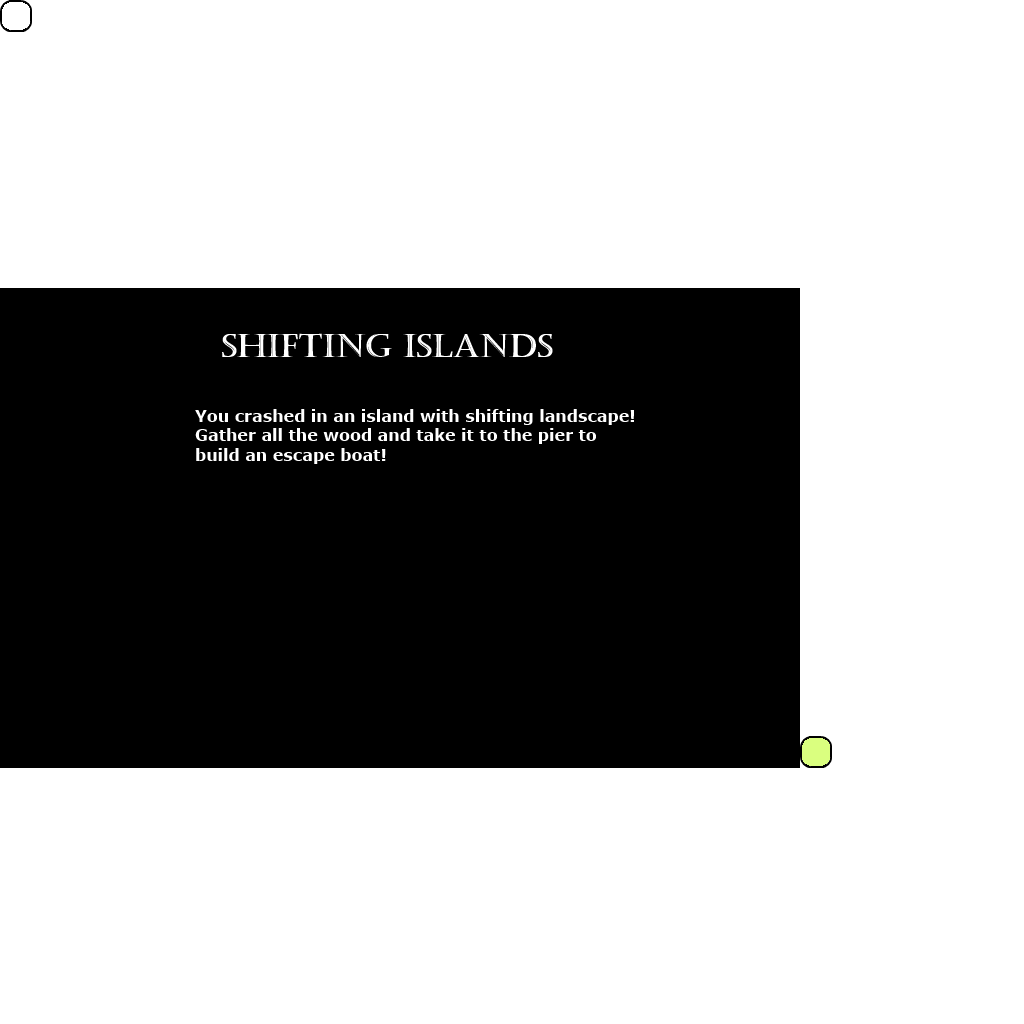
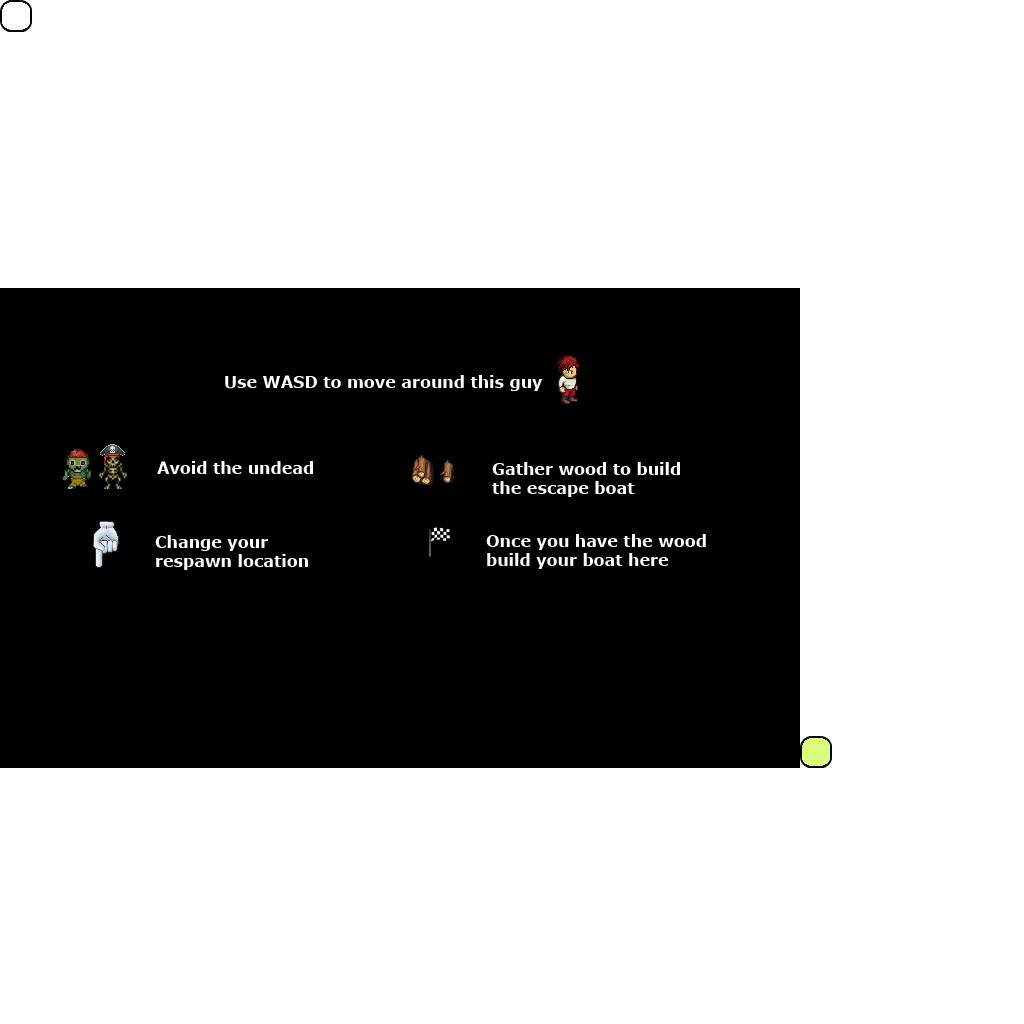
Added instructions screen

diff --git a/shiftingislands/src/org/xguzm/games/respawn/screens/MenuScreen.java b/shiftingislands/src/org/xguzm/games/respawn/screens/MenuScreen.java
@@ -1,5 +1,6 @@
 package org.xguzm.games.respawn.screens;
 
+import org.xguzm.games.respawn.Assets;
 import org.xguzm.games.respawn.Respawn;
 
 import com.badlogic.gdx.Game;
@@ -9,48 +10,62 @@ import com.badlogic.gdx.graphics.GL10;
 import com.badlogic.gdx.graphics.g2d.TextureAtlas;
 import com.badlogic.gdx.scenes.scene2d.InputEvent;
 import com.badlogic.gdx.scenes.scene2d.Stage;
+import com.badlogic.gdx.scenes.scene2d.ui.Label;
 import com.badlogic.gdx.scenes.scene2d.ui.Skin;
 import com.badlogic.gdx.scenes.scene2d.ui.Table;
 import com.badlogic.gdx.scenes.scene2d.ui.TextButton;
+import com.badlogic.gdx.scenes.scene2d.ui.Window;
+import com.badlogic.gdx.scenes.scene2d.ui.Window.WindowStyle;
+import com.badlogic.gdx.scenes.scene2d.utils.Align;
 import com.badlogic.gdx.scenes.scene2d.utils.ClickListener;
 
 
 public class MenuScreen implements Screen {
 	
 	Stage stage;
-	TextureAtlas atlas;
-	Skin skin;
 	
 	public MenuScreen(){
+		
 		float width = Gdx.graphics.getWidth(), height = Gdx.graphics.getHeight();
 		stage = new Stage(width, height, false, Respawn.SPRITE_BATCH);
-		atlas = new TextureAtlas(Gdx.files.internal("data/ui.atlas"));
-		skin = new Skin(Gdx.files.internal("data/ui-skin.json"), atlas);
+			
 		
-		Table layout = new Table(skin);
-		layout.setBackground("menu-bg");
-		layout.setFillParent(true);
-		
-		TextButton start = new TextButton("Play", skin);
+		TextButton start = new TextButton("Play", Assets.uiSkin);
 		start.addListener(new ClickListener(){
 			@Override
 			public void clicked(InputEvent event, float x, float y) {
 				((Game)Gdx.app.getApplicationListener()).setScreen(new GameScreen());
 			}
 		});
-		TextButton instructions = new TextButton("Instructions", skin);
+		TextButton instructions = new TextButton("Instructions", Assets.uiSkin);
 		instructions.addListener(new ClickListener(){
 			@Override
 			public void clicked(InputEvent event, float x, float y) {
 				((Game)Gdx.app.getApplicationListener()).setScreen(new InstructionsScreen());
 			}
 		});
+		Label legend = new Label("You crashed in an island with shifting landscape! \nGather wood to"
+				+ " build your escape boat while \navoiding undead pirates", Assets.uiSkin);
 		
-		layout.add(start).bottom();
-		layout.add(instructions).bottom();
+		legend.setWrap(true);
+		legend.setAlignment(Align.center);
+		legend.setFontScale(0.8f);
+		legend.pack();
 		
-		stage.addActor(layout);
+		Window window = new Window("Shifting islands", Assets.uiSkin);
+		window.setFillParent(true);
+		window.setMovable(false);
+		window.padTop(40);
 		
+		window.add(legend).expandX().colspan(2).padBottom(60);
+		window.row();
+		window.add(start).bottom();
+		window.add(instructions).bottom();
+		
+		window.pack();
+		stage.addActor(window);
+		
+		window.debug();
 		
 		Gdx.input.setInputProcessor(stage);
 	}
@@ -64,6 +79,7 @@ public class MenuScreen implements Screen {
 		
 		stage.act();
 		stage.draw();
+		//Table.drawDebug(stage);
 	}
 
 	@Override
@@ -88,9 +104,7 @@ public class MenuScreen implements Screen {
 
 	@Override
 	public void dispose() {	
-		atlas.dispose();
 		stage.dispose();
-		skin.dispose();
 	}
 
 }

diff --git a/shiftingislands/src/org/xguzm/games/respawn/screens/InstructionsScreen.java b/shiftingislands/src/org/xguzm/games/respawn/screens/InstructionsScreen.java
@@ -1,12 +1,61 @@
 package org.xguzm.games.respawn.screens;
 
+import org.xguzm.games.respawn.Assets;
+import org.xguzm.games.respawn.Respawn;
+
+import com.badlogic.gdx.Game;
+import com.badlogic.gdx.Gdx;
 import com.badlogic.gdx.Screen;
+import com.badlogic.gdx.graphics.GL10;
+import com.badlogic.gdx.graphics.g2d.TextureAtlas;
+import com.badlogic.gdx.scenes.scene2d.InputEvent;
+import com.badlogic.gdx.scenes.scene2d.Stage;
+import com.badlogic.gdx.scenes.scene2d.ui.Skin;
+import com.badlogic.gdx.scenes.scene2d.ui.Table;
+import com.badlogic.gdx.scenes.scene2d.ui.TextButton;
+import com.badlogic.gdx.scenes.scene2d.ui.Window;
+import com.badlogic.gdx.scenes.scene2d.utils.ClickListener;
 
 public class InstructionsScreen implements Screen{
 
+	private Stage stage;
+	
+	public InstructionsScreen(){		
+		float width = Gdx.graphics.getWidth(), height = Gdx.graphics.getHeight();
+		stage = new Stage(width, height, false, Respawn.SPRITE_BATCH);
+				
+		TextButton back = new TextButton("Back", Assets.uiSkin);
+		back.addListener(new ClickListener(){
+			@Override
+			public void clicked(InputEvent event, float x, float y) {
+				((Game)Gdx.app.getApplicationListener()).setScreen(new MenuScreen());
+			}
+		});
+		
+		Window window = new Window("Shifting islands", Assets.uiSkin, "instructions");
+		window.setFillParent(true);
+		window.setMovable(false);
+		window.padTop(40);
+		
+		window.row().expand();
+		window.add(back).bottom().expandX();
+		window.row().expandY().minHeight(50);		
+		window.pack();
+		stage.addActor(window);
+		
+		window.debug();
+		
+		Gdx.input.setInputProcessor(stage);
+	}
+
 	@Override
 	public void render(float delta) {
+		Gdx.gl.glClearColor( 0, 0, 0, 1);
+		Gdx.gl.glClear(GL10.GL_COLOR_BUFFER_BIT);
 		
+		stage.act();
+		stage.draw();
+		Table.drawDebug(stage);
 	}
 
 	@Override
@@ -33,7 +82,7 @@ public class InstructionsScreen implements Screen{
 
 	@Override
 	public void dispose() {
-		
+		stage.dispose();
 	}
 
 }

diff --git a/shiftingislands/src/org/xguzm/games/respawn/Assets.java b/shiftingislands/src/org/xguzm/games/respawn/Assets.java
@@ -6,6 +6,7 @@ import com.badlogic.gdx.graphics.g2d.Animation;
 import com.badlogic.gdx.graphics.g2d.BitmapFont;
 import com.badlogic.gdx.graphics.g2d.TextureAtlas;
 import com.badlogic.gdx.graphics.g2d.TextureRegion;
+import com.badlogic.gdx.scenes.scene2d.ui.Skin;
 import com.badlogic.gdx.utils.ObjectMap;
 
 public class Assets {
@@ -15,6 +16,7 @@ public class Assets {
 	private static ObjectMap<String, BitmapFont> fonts = new ObjectMap<String, BitmapFont>();
 	private static ObjectMap<String, Sound> sounds = new ObjectMap<String, Sound>();
 	private static TextureAtlas atlas;
+	public static Skin uiSkin ;
 	
 	public static void load(){
 		loadTempGraphics();
@@ -22,6 +24,7 @@ public class Assets {
 		sounds.put("coin1", Gdx.audio.newSound(Gdx.files.internal("data/picked-coin.ogg")));
 		sounds.put("hit", Gdx.audio.newSound(Gdx.files.internal("data/hit.ogg")));
 		sounds.put("newSpawn", Gdx.audio.newSound(Gdx.files.internal("data/newSpawn.ogg")));
+		uiSkin = new Skin(Gdx.files.internal("data/ui-skin.json"), new TextureAtlas(Gdx.files.internal("data/ui.atlas")));
 	}
 	
 	private static void loadTempGraphics(){
@@ -121,6 +124,7 @@ public class Assets {
 		sounds.clear();
 		images.clear();
 		animations.clear();
+		uiSkin.dispose();
 	}
 
 	public static BitmapFont getFont(String name) {
